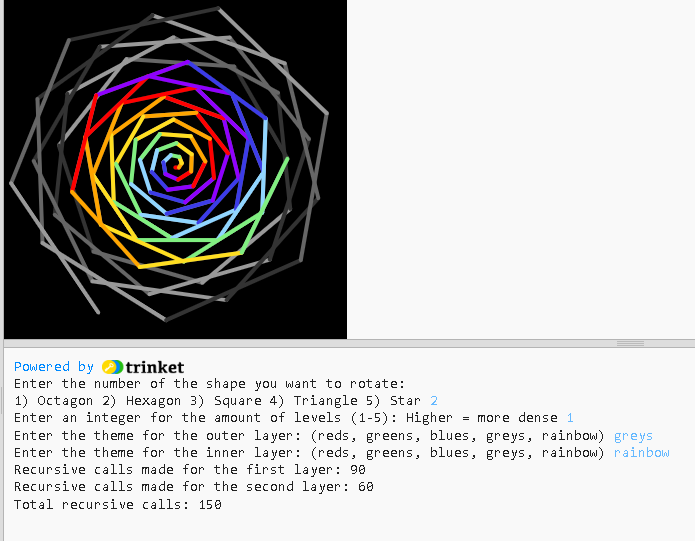
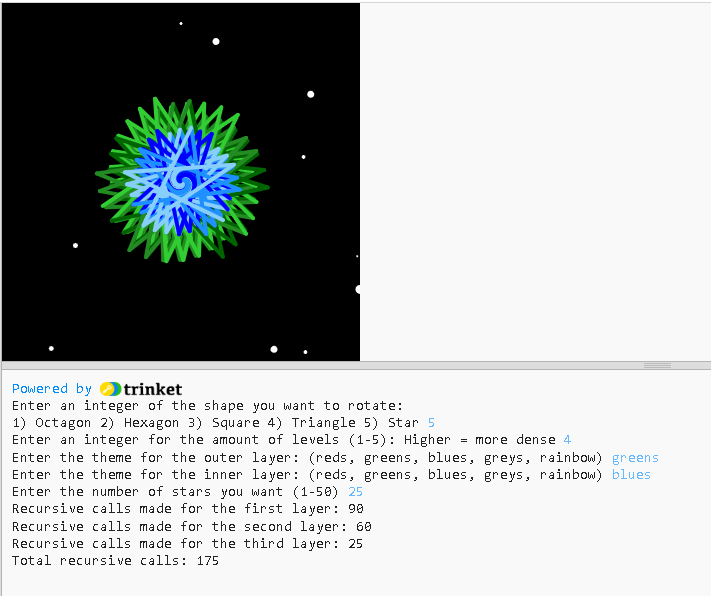
added new function

Changed region(s): [[0.0, 0.0, 1.0, 1.0]]

diff --git a/4.4/main.py b/4.4/main.py
@@ -2,7 +2,7 @@
 # Rotating Shapes Program
 
 import turtle
-
+import random
 # Dictionary for all the themes of colours that the user can choose from
 themes = {
     "reds": ["#FF0000", "#FF6347", "#FF7F7F"],
@@ -40,9 +40,6 @@ def draw_rotating_shapes(t, length, turns, angle, colours, levels, colour_index 
         # Star
         elif shape == 5:
             t.left(150)
-        # Octagon
-        else:
-            t.left(45)
 
     # Rotate slightly
     t.right(angle)
@@ -58,6 +55,23 @@ def draw_rotating_shapes(t, length, turns, angle, colours, levels, colour_index 
     # Turns decreases by 1 to keep rotating until it reaches the base case
     # Returns the function increased by 1 to count the number of calls
     return draw_rotating_shapes(t, length+2, turns - 1, angle, colours, levels, next_colour_index) + 1
+
+def draw_stars(t, n):
+
+    # Base case/ terminating case
+    if n == 0: 
+      return 0
+    
+    t.penup()
+    # Have the turtle move to a random point on the screen
+    t.goto(random.randint(-300,300), random.randint(-300,300))
+
+    # Draw a white  dot at that location, with random size between 2 and 10
+    t.dot(random.randint(2,10), "white")
+
+    # n decreases by 1 to move it closer to the base case and to signify one less dot that needs to be drawn
+    return draw_stars(t, n-1) + 1
+    
 
 # While loops used to make sure the user provides a valid input that wont crash the program
 
@@ -88,7 +102,13 @@ while True:
     if theme2 in themes:
         break
     print("Please type a valid colour")
-
+    
+while True:
+  # User input for number of stars
+  numStars = int(input("Enter the number of stars you want (1-50)"))
+  if 1<= numStars <=50:
+    break
+  print("Invalid option. Type a number from 1-50")
 
 # Defining the turtle, its speed, the background colour of the screen, and hiding it
 t = turtle.Turtle()
@@ -118,9 +138,14 @@ t.pendown()
 # Capture recursion count for the second draw
 numRecursions2 = draw_rotating_shapes(t, length, turns-30, angle, themes[theme2], levels)
 
+# Capture recursion count for the stars
+numRecursions3 = draw_stars(t, numStars)
+
 # Print results
 print("Recursive calls made for the first layer: " +str(numRecursions1))
 print("Recursive calls made for the second layer: " + str(numRecursions2))
-print("Total recursive calls: " + str(numRecursions1 + numRecursions2))
+print("Recursive calls made for the third layer: " + str(numRecursions3))
+print("Total recursive calls: " + str(numRecursions1 + numRecursions2 + numRecursions3))
 
+# End the program
 turtle.done()

diff --git a/4.4/README.md b/4.4/README.md
@@ -1,27 +1,19 @@
 # Rotating Shapes Program- Evan Chan
 
-### **Required Documentation Content Summary:**
-- Project overview
-- Explanation of your recursive approach and why it works
-- How to run the program
-- Screenshots of visual outputs (at least 2 different results)
-- Test cases with expected vs actual results
-- Discussion of reasonable recursion depth (why too low/high won't work)
-- Discuss performance implications of different depths
-- Suggest reasonable range for your implementation
-- Testing, debugging, and validation process documentation
-- Peer review discussion: feedback, code changes made (if any), and debugging support
-
 ## Project Overview
-- My program is a rotating shapes program that takes user input to create a program that takes a shape, and increases its size while rotating it, to create beautiful and abstract patterns. 
+- My program is a rotating shapes program that takes user input to create a program that takes a shape, and increases its size while rotating it and draw stars around, to create beautiful and abstract patterns. 
 - It passes through the function twice: once for the outer layer and again but with less turns for the inner layer. 
-- The user decides the shape, the number of levels/density, and the themes of both layers
+- The user decides the shape, the number of levels/density, the themes of both layers, and the number of stars
 
 ## Recursive Approach
+### First Function
 - Each recursive call draws one iteration of the pattern (or one full shape)
 - After each shape, the turtle turns slightly and makes another recursive call
 - The "turn" parameter decreases by 1 each time the function calls itself to eventually lead to the base case: turns == 0, and exit out of the function
 - Because each turn moves the turtle by a specific small angle (calculated by dividing the number of degrees in a circle by the number of turns), the function will always stop when the shapes have reached a full 360 degree rotation from its starting position
+### Second Function
+- The base case is when n == 0. This is when there are no more stars to draw so the function returns 0
+- Each recursive call draws one star, moves the turtle to a random position, and then calls itself again with one fewer star remaining (n-1)
 
 ## How to run the program
 - This program requires a compiler that supports turtle graphics
@@ -30,6 +22,7 @@
     2. Enter an integer for the amount of levels (1-5): Higher = more dense
     3. Enter the theme for the outer layer: (reds, greens, blues, greys, rainbow)
     4. Enter the theme for the inner layer: (reds, greens, blues, greys, rainbow)
+    6. Enter the number of stars you want (1-50)
 - If an input that was not specified was inputted, the program will keep asking until a valid input was inputted
     - e.g. If "6" is inputted for the first prompt, the program will ask you to answer the question again: Invalid option. Please type an integer from 1-5
 
@@ -38,40 +31,48 @@
 - For the first prompt, it asks the user for an integer from 1-5. Each number corresponds to a "shape". This shape is actually just created by changing the angle in which the turtle rotates after every line. So if the user inputs 3 (which corresponds to the square), the turtle would rotate to the left 90 degrees, creating the square shape the user sees
 - For the second prompt, it asks the user for an integer from 1-5. These values correspond to a different level/density of the drawing. The parameter "levels" is used in the main for loop for the amount of times that the turtle would draw a shape, thus creating a denser look for larger values passed
 - For the third and fourth inputs, it asks the user for the colour themes of the outer and inner layer. The value that the user inputs corresponds to a key in the dictionary created at the top. That key holds a list of colour values that would later be used when drawing the shapes.
+- For the last input, it asks the user for the amount of stars they want. The number they input is the amount of randomly placed stars that would be drawn on the screen
 
 ## Screenshots
 ### The first two screenshots below show the difference between a level 1 triangle and a level 5 triangle
-- Input = 4, 1, reds, blues 
+- Input = 4, 1, reds, blues, 1 
 - ![alt text](image-1.png)
 
-- Input = 4, 5, blues, reds
+- Input = 4, 5, blues, reds, 1
 - ![alt text](image-2.png)
 
-### Misc.
-- Input = 2, 1, greys, rainbow
+### The next two screenshots show the difference between 50 stars and 25 stars (in addition to the different colours, levels, and shapes)
+- Input = 2, 1, greys, rainbow, 50
+- ![alt text](image.png)
+
+- Input = 5, 4, greens, blues, 25
 - ![alt text](image-3.png)
 
-- Input = 5, 4, greens, blues
-- ![alt text](image-4.png)
-
 ## Test cases
-- Input = 2, 1, reds, rainbow
-- Expected output = a red hexagon rotating and growing larger every single rotation, then a rainbow hexagon doing the same but on top of it and ending sooner. Also returns the total number of recursive calls
-- Actual output = a red hexagon rotating and growing larger every single rotation, then a rainbow hexagon doing the same but on top of it and ending sooner. Also returns the total number of recursive calls of 150
+- Input = 2, 1, reds, rainbow, 1
+- Expected output = a red hexagon rotating and growing larger every single rotation, then a rainbow hexagon doing the same but on top of it and ending sooner. 1 star placed. Also returns the total number of recursive calls
+- Actual output = a red hexagon rotating and growing larger every single rotation, then a rainbow hexagon doing the same but on top of it and ending sooner. 1 star placed. Also returns the total number of recursive calls of 150+ns
 - Expected and Actual output is the exact same
 
-- Input = 5, 5, blues, greens
-- Expected output = blue star rotating and growing larger every rotation, very dense/rotates alot more times. Same for greens, but ends sooner. Also returns the total number of recursive calls
-- Actual output = blue star rotating and growing larger every rotation, very dense/rotates alot more times. Same for greens, but ends sooner. Also returns the total number of recursive calls of 150
+- Input = 5, 5, blues, greens, 50
+- Expected output = blue star rotating and growing larger every rotation, very dense/rotates alot more times. Same for greens, but ends sooner. 50 stars placed. Also returns the total number of recursive calls
+- Actual output = blue star rotating and growing larger every rotation, very dense/rotates alot more times. Same for greens, but ends sooner. 50 stars placed. Also returns the total number of recursive calls of 150+n
 - Exected and Actual output is the exact same
 
 
 ## Reasonable Recursion Depth
+### First Function
 - The depth of the recursion is controlled by the variable "turns"
 - This means each call of the function will result in one more rotation of the shape
 - If "turns" is too low(turns<20): The pattern will look incomplete and the recursion will end very quickly, only getting through a few shapes
 - If "turns" is too high(turns>250): The performance will decrease significantly and possibly lag. It could also freeze because of the large amount of recursive calls being made 
 - A reasonable range for turns is around 60-150, as demonstrated by my use of 90 in the program. This range ensures that the pattern will actually complete a full rotation without any performance/lag issues
+### Second Function
+- The depth of this recursion is controlled by n, which is the user inputted value numStars
+- n represents the number of stars that would be randomly drawn on the screen
+- an n value too high(>100) would result in long periods of delay drawing it, and performance/lag issues
+- an n value too low (<1) wouldnt work because the number of stars drawn cannot be negative
+- a reasonable range for the function would be around 1-50, which is the range that the user is forced to input in
 
 ## Testing Debugging and Validation
 1. Verified that the recursion actually terminated when turns == 0
@@ -80,6 +81,9 @@
 4. Ran multiple tests to make sure that the different combinations of shapes and levels worked to rotate around a full circle
 5. Added return values to count and confirm the amount of recursive calls made
 
+## Challenges
+- One challenge that I faced when coding this program was making the line change colours every single iteration without the colour index going out of range. I originally tried solving this issue with some very complex modulus operation that didnt end up working in the end. After testing for a little bit, I created a simpler, yet effective method for it: If the colour index is equal to the length of the colours list, then reset the colour index back to 0. This ensured that the colour index never went past the boundary point and continued to iterate through the colours.
+ 
 ## Peer Review
 ### Suggestions:
 - Add error handling code, if the user inputs something that isnt supported
